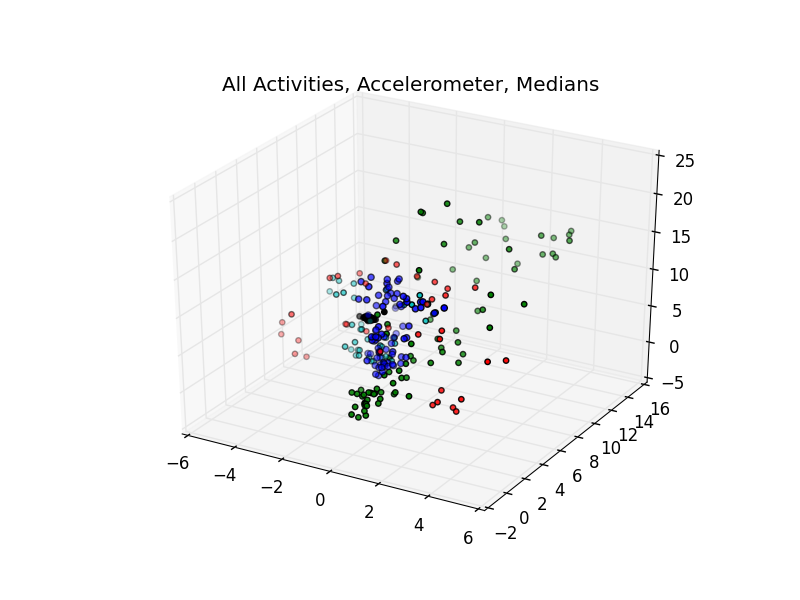
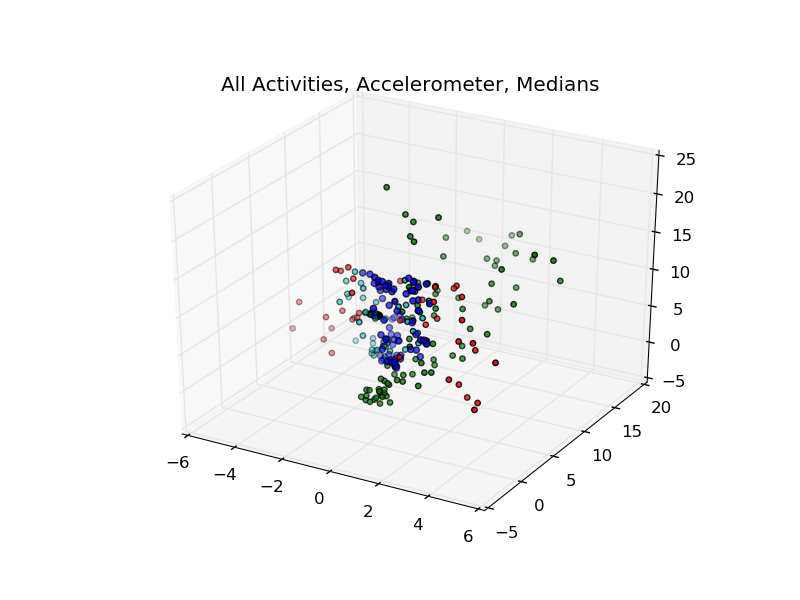
legend, proper title

diff --git a/analysis/graphs.py b/analysis/graphs.py
@@ -13,6 +13,8 @@ datafile.append(open('JUMPING_14-02-16_16-18-52_0.csv', "rb"))
 datafile.append(open('IDLE_14-02-16_16-10-48_0.csv',"rb"))
 datafile.append(open('STAIRS_14-02-16_16-12-33_455.csv',"rb"))
 
+activity_names = ['WALKING', 'RUNNING', 'JUMPING', 'IDLE', 'STAIRS']
+
 reader = csv.reader(datafile[0])
 
 accelX = np.array([])
@@ -116,42 +118,49 @@ for activity in all_activities:
 
 fig1 = plt.figure()
 ax = fig1.add_subplot(111, projection='3d')
-ax.scatter(plotit[0][0][0], plotit[0][1][0], plotit[0][2][0], zdir='z', s=20, c='b')
-ax.scatter(plotit[1][0][0], plotit[1][1][0], plotit[1][2][0], zdir='z', s=15, c='r')
-ax.scatter(plotit[2][0][0], plotit[2][1][0], plotit[2][2][0], zdir='z', s=15, c='g')
-ax.scatter(plotit[3][0][0], plotit[3][1][0], plotit[3][2][0], zdir='z', s=15, c='k')
-ax.scatter(plotit[4][0][0], plotit[4][1][0], plotit[4][2][0], zdir='z', s=15, c='c')
+ax.scatter(plotit[0][0][0], plotit[0][1][0], plotit[0][2][0], zdir='z', s=15, c='b', label=activity_names[0])
+ax.scatter(plotit[1][0][0], plotit[1][1][0], plotit[1][2][0], zdir='z', s=15, c='r', label=activity_names[1])
+ax.scatter(plotit[2][0][0], plotit[2][1][0], plotit[2][2][0], zdir='z', s=15, c='g', label=activity_names[2])
+ax.scatter(plotit[3][0][0], plotit[3][1][0], plotit[3][2][0], zdir='z', s=15, c='k', label=activity_names[3])
+ax.scatter(plotit[4][0][0], plotit[4][1][0], plotit[4][2][0], zdir='z', s=15, c='c', label=activity_names[4])
+ax.legend(loc='upper right')
 ax.set_title('All Activities, Accelerometer, Means')
-plt.savefig('plots/fig1.png')
+plt.savefig('plots/accelerometer_means.png')
 plt.show()
 
 fig2 = plt.figure()
 bx = fig2.add_subplot(111, projection='3d')
-bx.scatter(plotit[0][0][1], plotit[0][1][1], plotit[0][2][1], zdir='z', s=20, c='b')
-bx.scatter(plotit[1][0][1], plotit[1][1][1], plotit[1][2][1], zdir='z', s=15, c='r')
-bx.scatter(plotit[2][0][1], plotit[2][1][1], plotit[2][2][1], zdir='z', s=15, c='g')
-bx.scatter(plotit[3][0][1], plotit[3][1][1], plotit[3][2][1], zdir='z', s=15, c='k')
-bx.scatter(plotit[4][0][1], plotit[4][1][1], plotit[4][2][1], zdir='z', s=15, c='c')
+bx.scatter(plotit[0][0][1], plotit[0][1][1], plotit[0][2][1], zdir='z', s=15, c='b', label=activity_names[0])
+bx.scatter(plotit[1][0][1], plotit[1][1][1], plotit[1][2][1], zdir='z', s=15, c='r', label=activity_names[1])
+bx.scatter(plotit[2][0][1], plotit[2][1][1], plotit[2][2][1], zdir='z', s=15, c='g', label=activity_names[2])
+bx.scatter(plotit[3][0][1], plotit[3][1][1], plotit[3][2][1], zdir='z', s=15, c='k', label=activity_names[3])
+bx.scatter(plotit[4][0][1], plotit[4][1][1], plotit[4][2][1], zdir='z', s=15, c='c', label=activity_names[4])
+bx.legend(loc='upper right')
 bx.set_title('All Activities, Accelerometer, Medians')
-plt.savefig('plots/fig2.png')
+plt.savefig('plots/accelerometer_medians.png')
+plt.show()
 
 fig3 = plt.figure()
 cx = fig3.add_subplot(111, projection='3d')
-cx.scatter(plotit[0][0][2], plotit[0][1][2], plotit[0][2][2], zdir='z', s=20, c='b')
-cx.scatter(plotit[1][0][2], plotit[1][1][2], plotit[1][2][2], zdir='z', s=15, c='r')
-cx.scatter(plotit[2][0][2], plotit[2][1][2], plotit[2][2][2], zdir='z', s=15, c='g')
-cx.scatter(plotit[3][0][2], plotit[3][1][2], plotit[3][2][2], zdir='z', s=15, c='k')
-cx.scatter(plotit[4][0][2], plotit[4][1][2], plotit[4][2][2], zdir='z', s=15, c='c')
+cx.scatter(plotit[0][0][2], plotit[0][1][2], plotit[0][2][2], zdir='z', s=15, c='b', label=activity_names[0])
+cx.scatter(plotit[1][0][2], plotit[1][1][2], plotit[1][2][2], zdir='z', s=15, c='r', label=activity_names[1])
+cx.scatter(plotit[2][0][2], plotit[2][1][2], plotit[2][2][2], zdir='z', s=15, c='g', label=activity_names[2])
+cx.scatter(plotit[3][0][2], plotit[3][1][2], plotit[3][2][2], zdir='z', s=15, c='k', label=activity_names[3])
+cx.scatter(plotit[4][0][2], plotit[4][1][2], plotit[4][2][2], zdir='z', s=15, c='c', label=activity_names[3])
+cx.legend(loc='upper right')
 cx.set_title('All Activities, Accelerometer, Maxima')
-plt.savefig('plots/fig3.png')
+plt.savefig('plots/accelerometer_maxima.png')
+plt.show()
 
 fig4 = plt.figure()
 dx = fig4.add_subplot(111, projection='3d')
-dx.scatter(plotit[0][0][3], plotit[0][1][3], plotit[0][2][3], zdir='z', s=20, c='b')
-dx.scatter(plotit[1][0][3], plotit[1][1][3], plotit[1][2][3], zdir='z', s=15, c='r')
-dx.scatter(plotit[2][0][3], plotit[2][1][3], plotit[2][2][3], zdir='z', s=15, c='g')
-dx.scatter(plotit[3][0][3], plotit[3][1][3], plotit[3][2][3], zdir='z', s=15, c='k')
-dx.scatter(plotit[4][0][3], plotit[4][1][3], plotit[4][2][3], zdir='z', s=15, c='c')
+dx.scatter(plotit[0][0][3], plotit[0][1][3], plotit[0][2][3], zdir='z', s=15, c='b', label=activity_names[0])
+dx.scatter(plotit[1][0][3], plotit[1][1][3], plotit[1][2][3], zdir='z', s=15, c='r', label=activity_names[1])
+dx.scatter(plotit[2][0][3], plotit[2][1][3], plotit[2][2][3], zdir='z', s=15, c='g', label=activity_names[2])
+dx.scatter(plotit[3][0][3], plotit[3][1][3], plotit[3][2][3], zdir='z', s=15, c='k', label=activity_names[3])
+dx.scatter(plotit[4][0][3], plotit[4][1][3], plotit[4][2][3], zdir='z', s=15, c='c', label=activity_names[4])
+dx.legend(loc='upper right')
 dx.set_title('All Activities, Acceleromenter, Variances')
 plt.savefig('plots/fig4.png')
+plt.show()
 
